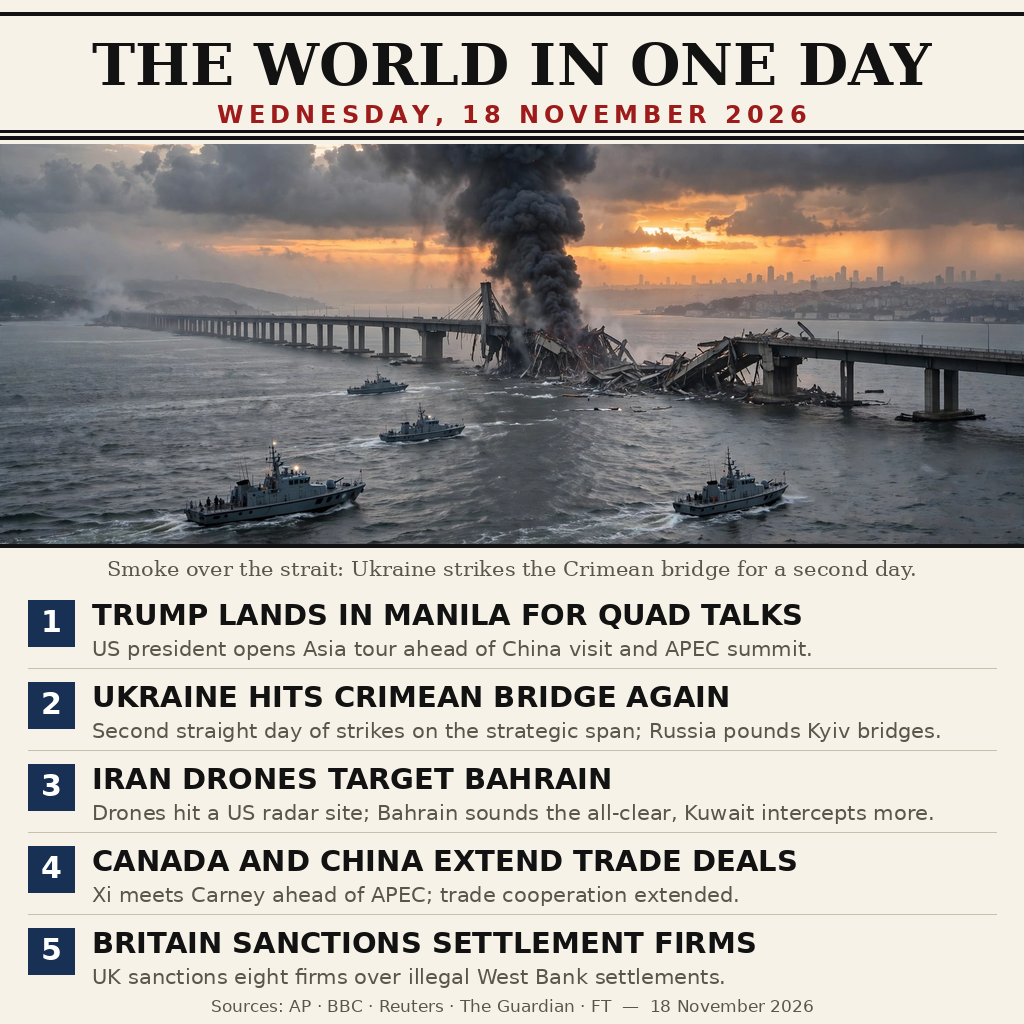
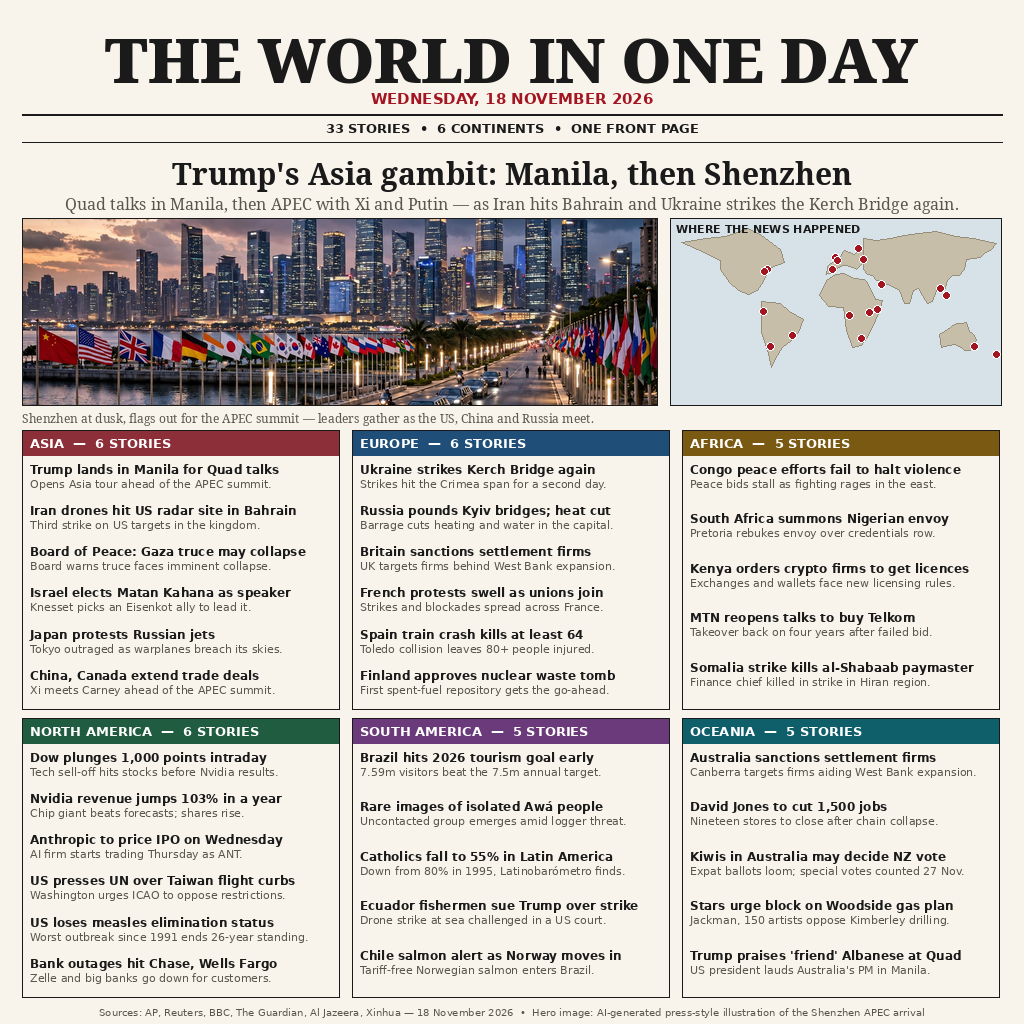
Rebuild front page: 33 stories from six continents + world map
Replace the 5-headline layout with a dense front page in the shape of
the leading entry: masthead, APEC/Shenzhen hero photo, schematic world
map marking story regions, and 33 real stories from Wednesday
18 November 2026 grouped by continent (Asia 6, Europe 6, Africa 5,
North America 6, South America 5, Oceania 5). README lists all 33
stories with sources; entry.png rebuilt deterministically by
build_frontpage_v2.py (1024x1024, 415325 bytes).

diff --git a/main.ts b/main.ts
@@ -1,17 +1,14 @@
 // make.fun news-image-20261118 entry (Node 22, standard library only).
 //
-// The picture is the entry.png beside this file: a newspaper front page
-// summing up Wednesday 18 November 2026 — "THE WORLD IN ONE DAY".
-// Hero photo: a sea bridge burning under storm clouds at dawn, patrol
-// boats below (Ukraine's second straight day of strikes on the Crimean
-// bridge; Russia pounds Kyiv bridges). Five headlines below it:
-//   1. Trump lands in Manila for Quad talks (Asia tour ahead of China visit, APEC)
-//   2. Ukraine hits Crimean bridge again (second straight day)
-//   3. Iran drones target Bahrain (US radar site hit; Gulf states intercept more)
-//   4. Canada and China extend trade deals (Xi meets Carney ahead of APEC)
-//   5. Britain sanctions settlement firms (eight firms over West Bank settlements)
-// The program copies it to /output/entry.png, byte for byte, so the
-// judge sees exactly the image in this repository.
+// The picture is the entry.png beside this file: a dense newspaper front
+// page summing up Wednesday 18 November 2026 — "THE WORLD IN ONE DAY".
+// Hero photo: the Shenzhen skyline at dusk, flags out for the APEC summit
+// (Trump's Asia tour: Quad talks in Manila, then Shenzhen with Xi and
+// Putin). Beside it a small world map marking where the news happened,
+// and below it 33 real stories grouped across six continents:
+// Asia 6, Europe 6, Africa 5, North America 6, South America 5,
+// Oceania 5. The program copies it to /output/entry.png, byte for byte,
+// so the judge sees exactly the image in this repository.
 //
 // Outside the grader's container, MAKEFUN_OUTPUT_DIR stands in for
 // /output:

diff --git a/README.md b/README.md
@@ -1,4 +1,4 @@
-# The World in One Day — make.fun news-image-20261118
+# The World in One Day — Wednesday 18 November 2026: 33 stories from six continents on one front page
 
 [![make.fun · news-image-20261118](https://make.fun/badge/news-image-20261118.svg)](https://make.fun/bounty/news-image-20261118?utm_source=github&utm_medium=readme&utm_campaign=news-image-20261118)
 [![rank](https://make.fun/badge/news-image-20261118/faaz12/makefun-news-image-20261118/rank.svg)](https://make.fun/bounty/news-image-20261118/leaderboard?utm_source=github&utm_medium=readme&utm_campaign=news-image-20261118)
@@ -8,27 +8,109 @@ Entry for the make.fun bounty **"Sum up 18 November's world news in one image"**
 (`news-image-20261118`): a program that writes one picture summing up the world's
 news of Wednesday 18 November 2026 to `/output/entry.png`.
 
-The picture is a newspaper front page — "THE WORLD IN ONE DAY" — with a hero
-photograph of a sea bridge burning under storm clouds at dawn, patrol boats
-below (Ukraine's second straight day of strikes on the Crimean bridge), and
-five headlines below it:
+The picture is a dense newspaper front page — "THE WORLD IN ONE DAY" —
+with a hero photograph of the Shenzhen skyline at dusk, flags out for the
+APEC summit, a small world map marking where the news happened, and
+**33 real stories grouped across six continents**:
 
-1. **Trump lands in Manila for Quad talks** — US president opens his Asia tour
-   ahead of a China visit and the APEC summit.
-2. **Ukraine hits Crimean bridge again** — second straight day of strikes on
-   the strategic span; Russia pounds bridges in Kyiv.
-3. **Iran drones target Bahrain** — drones hit a US radar site; Bahrain sounds
-   the all-clear, Kuwait intercepts more.
-4. **Canada and China extend trade deals** — Xi meets Carney ahead of APEC;
-   trade cooperation extended.
-5. **Britain sanctions settlement firms** — UK sanctions eight firms over
-   illegal West Bank settlements.
+## Asia — 6 stories
 
-Sources: AP, BBC, Reuters, The Guardian, FT — 18 November 2026.
+1. **Trump lands in Manila for Quad talks** — opens Asia tour ahead of the
+   APEC summit.
+2. **Iran drones hit US radar site in Bahrain** — third strike on US targets
+   in the kingdom.
+3. **Board of Peace: Gaza truce may collapse** — board warns truce faces
+   imminent collapse.
+4. **Israel elects Matan Kahana as speaker** — Knesset picks an Eisenkot
+   ally to lead it.
+5. **Japan protests Russian jets** — Tokyo outraged as warplanes breach its
+   skies.
+6. **China, Canada extend trade deals** — Xi meets Carney ahead of the APEC
+   summit.
 
-The program itself is deliberately simple — it copies the picture in this
-repository byte for byte, verifies the copy landed whole, and writes the same
-bytes on every run.
+## Europe — 6 stories
+
+7. **Ukraine strikes Kerch Bridge again** — strikes hit the Crimea span for
+   a second day.
+8. **Russia pounds Kyiv bridges; heat cut** — barrage cuts heating and water
+   in the capital.
+9. **Britain sanctions settlement firms** — UK targets firms behind West
+   Bank expansion.
+10. **French protests swell as unions join** — strikes and blockades spread
+    across France.
+11. **Spain train crash kills at least 64** — Toledo collision leaves 80+
+    people injured.
+12. **Finland approves nuclear waste tomb** — first spent-fuel repository
+    gets the go-ahead.
+
+## Africa — 5 stories
+
+13. **Congo peace efforts fail to halt violence** — peace bids stall as
+    fighting rages in the east.
+14. **South Africa summons Nigerian envoy** — Pretoria rebukes envoy over
+    credentials row.
+15. **Kenya orders crypto firms to get licences** — exchanges and wallets
+    face new licensing rules.
+16. **MTN reopens talks to buy Telkom** — takeover back on four years after
+    failed bid.
+17. **Somalia strike kills al-Shabaab paymaster** — finance chief killed in
+    strike in Hiran region.
+
+## North America — 6 stories
+
+18. **Dow plunges 1,000 points intraday** — tech sell-off hits stocks
+    before Nvidia results.
+19. **Nvidia revenue jumps 103% in a year** — chip giant beats forecasts;
+    shares rise.
+20. **Anthropic to price IPO on Wednesday** — AI firm starts trading
+    Thursday as ANT.
+21. **US presses UN over Taiwan flight curbs** — Washington urges ICAO to
+    oppose restrictions.
+22. **US loses measles elimination status** — worst outbreak since 1991 ends
+    26-year standing.
+23. **Bank outages hit Chase, Wells Fargo** — Zelle and big banks go down
+    for customers.
+
+## South America — 5 stories
+
+24. **Brazil hits 2026 tourism goal early** — 7.59m visitors beat the 7.5m
+    annual target.
+25. **Rare images of isolated Awá people** — uncontacted group emerges amid
+    logger threat.
+26. **Catholics fall to 55% in Latin America** — down from 80% in 1995,
+    Latinobarómetro finds.
+27. **Ecuador fishermen sue Trump over strike** — drone strike at sea
+    challenged in a US court.
+28. **Chile salmon alert as Norway moves in** — tariff-free Norwegian salmon
+    enters Brazil.
+
+## Oceania — 5 stories
+
+29. **Australia sanctions settlement firms** — Canberra targets firms aiding
+    West Bank expansion.
+30. **David Jones to cut 1,500 jobs** — nineteen stores to close after
+    chain collapse.
+31. **Kiwis in Australia may decide NZ vote** — expat ballots loom; special
+    votes counted 27 Nov.
+32. **Stars urge block on Woodside gas plan** — Jackman, 150 artists oppose
+    Kimberley drilling.
+33. **Trump praises 'friend' Albanese at Quad** — US president lauds
+    Australia's PM in Manila.
+
+Sources: AP, Reuters, BBC, The Guardian, Al Jazeera, Xinhua — 18 November
+2026. The hero image is an AI-generated press-style illustration of the
+Shenzhen APEC arrival (skyline, flags, motorcade), not a photograph of a
+real event.
+
+## Method
+
+The front page is composed deterministically by
+`../build_frontpage_v2.py` (Python + Pillow, system fonts only, no
+network): masthead, lead headline, hero photo, schematic world map with
+one red marker per story region, and six continent boxes. The program
+itself is deliberately simple — it copies the picture in this repository
+byte for byte, verifies the copy landed whole, and writes the same bytes
+on every run.
 
 ## Run it
 
